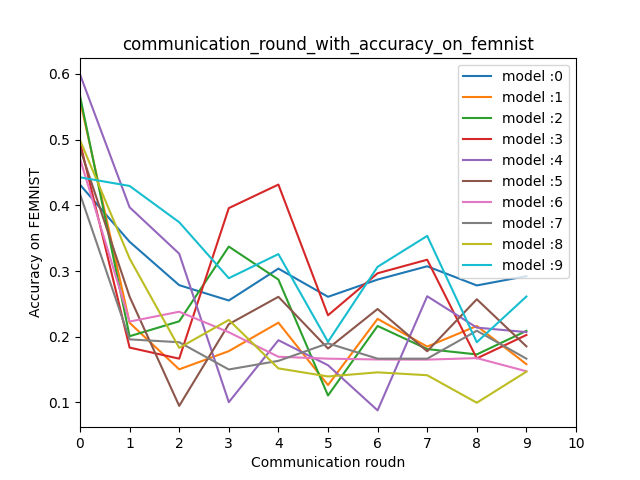
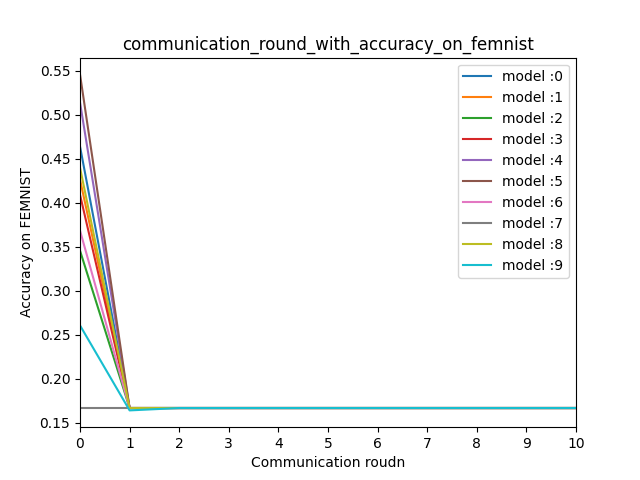
update

diff --git a/data_utils.py b/data_utils.py
@@ -103,13 +103,16 @@ def get_private_dataset_balanced(args):
         # 当我们对类的属性item进行下标的操作时，首先会被__getitem__()、__setitem__()、__delitem__()拦截，从而执行我们在方法中设定的操作，如赋值，修改内容，删除内容等等。
         def __init__(self, txt, transform=None, target_transform=None, loader=default_loader):
             fh = open(txt, 'r')
+            # i = 0
             imgs = []
             for line in fh:
                 line = line.strip('\n')
                 line = line.rstrip()
                 words = line.split()
                 if (int(words[1])+9) in private_data_index:
+                    # i = i+1
                     imgs.append((words[0], (int(words[1])+9))) # 在这里对数据进行修改
+            # print(i)
             self.imgs = imgs
             self.transform = transform
             self.target_transform = target_transform
@@ -136,10 +139,17 @@ import os
 from option import args_parser
 
 
+dict = {14: [0, 2, 14, 22, 23, 24, 28, 31, 35, 58, 63, 64, 72, 77, 87, 90, 91, 94, 95, 97, 104, 112, 138, 144, 153, 165, 179, 191, 195, 198, 207, 208, 214, 219, 221, 226, 248, 254, 255, 259, 261, 262, 264, 283, 285, 286, 295, 298, 299, 306, 310, 317, 324, 329, 337, 343, 351, 357, 366, 370, 371, 376, 380, 393, 394, 395, 404, 405, 408, 419, 433, 437, 439, 448, 450, 456, 461, 480, 481, 490, 499, 503, 507, 508, 512, 522, 527, 531, 540, 541, 555, 558, 563, 564, 570, 573, 582, 584, 591, 594, 599, 603, 607, 609, 610, 612, 621, 627, 628, 634, 650, 652, 667, 668, 696, 702, 710, 714, 715, 717, 726, 728, 729, 730, 739, 743, 748, 750, 762, 769, 775, 782, 783, 792, 798, 808, 811, 817, 823, 826, 834, 851, 854, 857, 858, 860, 864, 867, 868, 870, 876, 879, 881, 884, 898, 900, 919, 934, 938, 941, 949, 950, 954, 956, 958, 972, 986, 990, 1019, 1020, 1022, 1027, 1029, 1031, 1032, 1036, 1038, 1039, 1040, 1051, 1055, 1077, 1079, 1087, 1094, 1106, 1110, 1119, 1128, 1130, 1141, 1145, 1154, 1161, 1166, 1181, 1186, 1194, 1206, 1208, 1220, 1221, 1223, 1228, 1243, 1247, 1251, 1273, 1295, 1299, 1301, 1308, 1331, 1340, 1342, 1371, 1375, 1378, 1379, 1381, 1388, 1395, 1398, 1400, 1402, 1405, 1406, 1407, 1417, 1422, 1427, 1430, 1436, 1452, 1454, 1464, 1471, 1472, 1478, 1479, 1484, 1493, 1494, 1499, 1504, 1508, 1522, 1523, 1525, 1541, 1546, 1547, 1550, 1551, 1553, 1556, 1558, 1565, 1566, 1573, 1574, 1578, 1583, 1584, 1596, 1598, 1605, 1608, 1612, 1617, 1621, 1623, 1642, 1645, 1646, 1654, 1681, 1683, 1687, 1688, 1689, 1704, 1714, 1716, 1718, 1724, 1725, 1731, 1732, 1733, 1735, 1736, 1740, 1745, 1771, 1772, 1785, 1798, 1799, 1804, 1805, 1807, 1810, 1813, 1817, 1818, 1843, 1846, 1848, 1863, 1864, 1884, 1890, 1899, 1902, 1904, 1906, 1914, 1920, 1923, 1925, 1945, 1952, 1957, 1959, 1960, 1968, 1974, 1975, 2001, 2004, 2011, 2016, 2041, 2042, 2057, 2060, 2071, 2075, 2077, 2081, 2094, 2100, 2102, 2104, 2115, 2117, 2118, 2119, 2149, 2151, 2153, 2154, 2155, 2161, 2162, 2166, 2172, 2188, 2191, 2198, 2202, 2212, 2219, 2223, 2236, 2237, 2243, 2244, 2254, 2255, 2258, 2263, 2274, 2278, 2282, 2283, 2286, 2295, 2300, 2305, 2325, 2329, 2333, 2336, 2351, 2353, 2358, 2360, 2363, 2366, 2377, 2382, 2390, 2391, 2394, 2401, 2423, 2435, 2437, 2444, 2450, 2453, 2457, 2458, 2461, 2464, 2465, 2467, 2475, 2483, 2502, 2504, 2513, 2524, 2526, 2527, 2529, 2532, 2543, 2547, 2551, 2557, 2570, 2573, 2587, 2590, 2593, 2602, 2609, 2612, 2628, 2641, 2644, 2662, 2666, 2673, 2674, 2677, 2696, 2697, 2698, 2699, 2704, 2705, 2725, 2728, 2729, 2737, 2745, 2746, 2747, 2751, 2752, 2753, 2756, 2765, 2774, 2776, 2778, 2779, 2780, 2784, 2791, 2806, 2810, 2813, 2814, 2822, 2825, 2826, 2831, 2836, 2839, 2845, 2850, 2852, 2853, 2855, 2860, 2865, 2878, 2879, 2884, 2885, 2888, 2893, 2898, 2902, 2903, 2906, 2910, 2930, 2937, 2940, 2948, 2952, 2959, 2964, 2966, 2972, 2980, 2983, 2986, 2994, 2997, 3003, 3005, 3010, 3019, 3022, 3026, 3028, 3030, 3034, 3035, 3061, 3062, 3066, 3087, 3102, 3108, 3121, 3122, 3124, 3130, 3133, 3134, 3141, 3146, 3150, 3152, 3162, 3165, 3174, 3177, 3183, 3197, 3198, 3205, 3215, 3218, 3219, 3232, 3235, 3236, 3240, 3259, 3262, 3276, 3277, 3279, 3282, 3283, 3289, 3306, 3307, 3311, 3316, 3324, 3333, 3347, 3350, 3358, 3359, 3368, 3374, 3390, 3394, 3400, 3408, 3436, 3441, 3442, 3459, 3461, 3469, 3478, 3484, 3492, 3497, 3513, 3521, 3522, 3524, 3531, 3536, 3540, 3543, 3544, 3547, 3550, 3551, 3561, 3570, 3573, 3578, 3581, 3582, 3584, 3585, 3589, 3591, 3594, 3609, 3613, 3614, 3619, 3628, 3633, 3634, 3637, 3638, 3642, 3650, 3653, 3655, 3656, 3658, 3660, 3661, 3663, 3666, 3669, 3677, 3688, 3695, 3705, 3719, 3724, 3725, 3726, 3736, 3742, 3747, 3753, 3759, 3763, 3774, 3775, 3778, 3787, 3799, 3805, 3817, 3823, 3837, 3840, 3841, 3842, 3844, 3853, 3864, 3865, 3874, 3878, 3881, 3885, 3900, 3904, 3920, 3926, 3928, 3934, 3937, 3957, 3964, 3966, 3975, 3976, 3987, 3991, 3999, 4021, 4022, 4031, 4044, 4047, 4056, 4063, 4068, 4070, 4079, 4088, 4089, 4106, 4107, 4124, 4125, 4129, 4140, 4147, 4148, 4150, 4153, 4155, 4169, 4173, 4174, 4176, 4178, 4189, 4190, 4195, 4198, 4202, 4218, 4225, 4226, 4232, 4240, 4244, 4257, 4278, 4281, 4288, 4291, 4300, 4301, 4305, 4307, 4324, 4326, 4334, 4335, 4337, 4347, 4348, 4357, 4358, 4359, 4362, 4368, 4371, 4387, 4389, 4393, 4394, 4411, 4418, 4422, 4434, 4439, 4447, 4456, 4457, 4473, 4486, 4493, 4494, 4496, 4497, 4502, 4504, 4507, 4513, 4514, 4518, 4524, 4536, 4542, 4548, 4557, 4569, 4576, 4578, 4584, 4586, 4596, 4601, 4616, 4628, 4631, 4645, 4647, 4659, 4665, 4670, 4673, 4679, 4681, 4682, 4683, 4685, 4696, 4699, 4711, 4713, 4715, 4743, 4761, 4781, 4785, 4790, 4791, 4797, 4803, 4804, 4817, 4819, 4823, 4824, 4832, 4836, 4839, 4840, 4850, 4851, 4865, 4871, 4877, 4882, 4883, 4888, 4890, 4893, 4895, 4896, 4898, 4904, 4911, 4923, 4925, 4929, 4930, 4933, 4939, 4943, 4945, 4946, 4950, 4951, 4953, 4957, 4965, 4966, 4970, 4977, 4979, 4986, 4987, 4988, 4997, 5015, 5016, 5022, 5024, 5026, 5037, 5041, 5043, 5045, 5050, 5059, 5063, 5066, 5084, 5090, 5092, 5107, 5110, 5122, 5138, 5139, 5140, 5149, 5156, 5165, 5168, 5178, 5197, 5201, 5204, 5205, 5206, 5211, 5225, 5229, 5231, 5237, 5250, 5252, 5253, 5258, 5270, 5277, 5278, 5283, 5288, 5301, 5304, 5306, 5315, 5326, 5327, 5329, 5330, 5347, 5379, 5389, 5392, 5409, 5414, 5417, 5424],
+        11: [1, 9, 16, 17, 19, 21, 27, 40, 41, 42, 47, 52, 53, 66, 78, 80, 86, 107, 115, 118, 120, 121, 129, 131, 133, 148, 149, 150, 156, 159, 162, 166, 167, 168, 193, 206, 213, 215, 223, 225, 230, 240, 257, 258, 263, 265, 267, 270, 271, 278, 281, 289, 320, 322, 325, 326, 332, 334, 341, 345, 346, 352, 360, 363, 365, 369, 372, 382, 383, 390, 410, 415, 418, 426, 430, 431, 435, 454, 462, 476, 486, 489, 493, 496, 506, 513, 518, 525, 526, 533, 557, 571, 593, 597, 615, 625, 629, 633, 637, 657, 670, 671, 672, 673, 681, 684, 692, 695, 700, 706, 716, 719, 724, 734, 735, 755, 756, 759, 763, 771, 773, 784, 786, 789, 794, 806, 820, 822, 840, 849, 852, 853, 866, 875, 894, 918, 920, 923, 927, 937, 943, 944, 960, 965, 966, 967, 973, 980, 984, 991, 1012, 1014, 1015, 1017, 1018, 1049, 1056, 1061, 1065, 1066, 1069, 1074, 1075, 1083, 1098, 1101, 1102, 1107, 1112, 1123, 1134, 1137, 1139, 1140, 1143, 1144, 1149, 1171, 1173, 1178, 1179, 1183, 1187, 1188, 1193, 1207, 1210, 1215, 1222, 1226, 1230, 1237, 1239, 1240, 1248, 1255, 1258, 1261, 1263, 1266, 1268, 1276, 1278, 1286, 1288, 1302, 1307, 1311, 1313, 1316, 1320, 1321, 1325, 1326, 1328, 1334, 1367, 1370, 1373, 1377, 1383, 1391, 1392, 1394, 1418, 1423, 1433, 1437, 1449, 1458, 1462, 1467, 1469, 1473, 1474, 1488, 1500, 1505, 1506, 1511, 1518, 1528, 1529, 1533, 1536, 1537, 1539, 1549, 1561, 1567, 1572, 1582, 1591, 1607, 1629, 1631, 1632, 1635, 1637, 1647, 1649, 1661, 1668, 1669, 1672, 1684, 1685, 1686, 1696, 1713, 1720, 1729, 1749, 1752, 1767, 1768, 1774, 1775, 1779, 1788, 1806, 1809, 1812, 1824, 1828, 1850, 1865, 1867, 1871, 1876, 1881, 1883, 1885, 1887, 1888, 1889, 1900, 1901, 1908, 1922, 1928, 1938, 1942, 1944, 1954, 1958, 1964, 1973, 1978, 1983, 1984, 1985, 1989, 2020, 2022, 2024, 2039, 2047, 2049, 2054, 2055, 2063, 2065, 2070, 2080, 2087, 2091, 2113, 2116, 2135, 2136, 2140, 2142, 2145, 2146, 2148, 2164, 2170, 2192, 2193, 2194, 2204, 2207, 2210, 2224, 2227, 2232, 2238, 2239, 2257, 2264, 2265, 2267, 2268, 2277, 2287, 2292, 2322, 2324, 2327, 2340, 2341, 2345, 2367, 2403, 2412, 2418, 2420, 2432, 2436, 2438, 2448, 2449, 2455, 2469, 2476, 2477, 2491, 2505, 2506, 2509, 2523, 2531, 2537, 2538, 2545, 2559, 2560, 2562, 2564, 2576, 2578, 2580, 2598, 2603, 2608, 2619, 2620, 2623, 2624, 2639, 2642, 2643, 2649, 2651, 2671, 2682, 2683, 2684, 2686, 2687, 2695, 2709, 2717, 2719, 2731, 2734, 2748, 2762, 2763, 2773, 2783, 2794, 2798, 2800, 2812, 2816, 2817, 2841, 2847, 2856, 2862, 2864, 2870, 2871, 2874, 2880, 2881, 2890, 2891, 2892, 2896, 2905, 2913, 2914, 2917, 2935, 2936, 2938, 2939, 2947, 2949, 2951, 2954, 2956, 2958, 2962, 2965, 2967, 2968, 2993, 2999, 3000, 3004, 3007, 3009, 3011, 3015, 3025, 3037, 3042, 3054, 3055, 3063, 3074, 3079, 3092, 3097, 3105, 3111, 3112, 3113, 3116, 3128, 3129, 3131, 3132, 3153, 3155, 3156, 3170, 3181, 3182, 3188, 3189, 3194, 3212, 3213, 3217, 3222, 3229, 3233, 3238, 3251, 3253, 3290, 3293, 3294, 3297, 3309, 3331, 3338, 3341, 3342, 3346, 3364, 3369, 3382, 3383, 3384, 3399, 3402, 3412, 3413, 3415, 3420, 3437, 3443, 3444, 3445, 3446, 3448, 3451, 3462, 3464, 3470, 3472, 3479, 3480, 3481, 3482, 3483, 3486, 3490, 3496, 3498, 3506, 3507, 3523, 3539, 3546, 3548, 3549, 3574, 3580, 3590, 3596, 3601, 3610, 3615, 3626, 3632, 3639, 3657, 3662, 3664, 3667, 3670, 3686, 3687, 3691, 3696, 3698, 3706, 3707, 3710, 3711, 3714, 3729, 3737, 3745, 3756, 3760, 3762, 3765, 3766, 3768, 3773, 3776, 3786, 3790, 3794, 3796, 3797, 3811, 3813, 3816, 3824, 3838, 3843, 3867, 3870, 3872, 3875, 3886, 3888, 3893, 3895, 3906, 3911, 3921, 3922, 3938, 3949, 3950, 3955, 3960, 3970, 3971, 3982, 3984, 3988, 3997, 3998, 4009, 4012, 4014, 4016, 4029, 4033, 4035, 4039, 4041, 4048, 4051, 4065, 4073, 4080, 4085, 4103, 4109, 4128, 4131, 4137, 4138, 4142, 4146, 4159, 4165, 4171, 4172, 4175, 4179, 4182, 4197, 4199, 4201, 4207, 4209, 4212, 4215, 4236, 4245, 4253, 4255, 4256, 4258, 4266, 4269, 4275, 4282, 4286, 4289, 4294, 4296, 4297, 4302, 4311, 4312, 4313, 4316, 4322, 4325, 4333, 4342, 4349, 4351, 4352, 4354, 4355, 4370, 4372, 4373, 4376, 4386, 4399, 4401, 4405, 4406, 4412, 4413, 4421, 4428, 4437, 4449, 4463, 4485, 4509, 4511, 4519, 4522, 4525, 4526, 4530, 4538, 4541, 4543, 4545, 4547, 4551, 4553, 4555, 4559, 4565, 4566, 4572, 4575, 4579, 4580, 4581, 4587, 4590, 4602, 4606, 4610, 4611, 4615, 4621, 4622, 4630, 4640, 4642, 4644, 4651, 4660, 4666, 4667, 4672, 4674, 4677, 4688, 4694, 4700, 4701, 4706, 4707, 4721, 4723, 4728, 4734, 4741, 4744, 4757, 4758, 4759, 4760, 4763, 4776, 4779, 4793, 4805, 4806, 4811, 4812, 4814, 4816, 4826, 4827, 4838, 4844, 4845, 4857, 4859, 4864, 4872, 4901, 4903, 4907, 4913, 4916, 4919, 4920, 4921, 4927, 4944, 4956, 4967, 4971, 4973, 4981, 4994, 5001, 5003, 5011, 5014, 5017, 5020, 5032, 5047, 5074, 5076, 5102, 5104, 5114, 5117, 5118, 5120, 5126, 5128, 5131, 5133, 5137, 5145, 5148, 5150, 5151, 5158, 5167, 5170, 5171, 5174, 5179, 5180, 5181, 5191, 5192, 5200, 5203, 5208, 5209, 5215, 5217, 5218, 5219, 5220, 5221, 5243, 5244, 5246, 5255, 5257, 5261, 5271, 5275, 5289, 5291, 5292, 5308, 5311, 5312, 5328, 5338, 5340, 5341, 5346, 5354, 5355, 5356, 5357, 5358, 5369, 5370, 5371, 5374, 5376, 5387, 5398, 5405, 5408, 5410, 5412, 5418],
+        10: [3, 4, 5, 7, 13, 18, 20, 55, 59, 67, 74, 82, 88, 96, 106, 110, 114, 116, 119, 128, 132, 137, 139, 146, 154, 158, 160, 173, 176, 180, 196, 203, 209, 220, 229, 232, 234, 241, 249, 252, 253, 256, 268, 279, 280, 282, 290, 293, 294, 296, 297, 300, 301, 307, 327, 339, 342, 354, 364, 384, 387, 388, 403, 406, 407, 414, 420, 421, 422, 424, 429, 444, 452, 453, 469, 470, 477, 483, 484, 488, 498, 510, 514, 517, 519, 530, 532, 534, 538, 543, 544, 547, 552, 559, 565, 576, 583, 585, 586, 592, 596, 598, 600, 620, 640, 644, 646, 647, 649, 653, 658, 663, 669, 674, 683, 687, 690, 691, 693, 697, 712, 722, 727, 732, 737, 740, 741, 742, 752, 757, 770, 776, 779, 781, 787, 793, 797, 809, 810, 813, 815, 830, 832, 843, 850, 869, 872, 873, 874, 882, 892, 893, 903, 907, 910, 914, 915, 925, 932, 942, 952, 953, 959, 963, 969, 971, 976, 977, 978, 982, 988, 989, 994, 1000, 1001, 1006, 1021, 1023, 1024, 1025, 1028, 1044, 1047, 1052, 1057, 1058, 1064, 1068, 1073, 1092, 1093, 1095, 1104, 1109, 1113, 1122, 1125, 1133, 1135, 1152, 1160, 1162, 1163, 1164, 1167, 1170, 1172, 1184, 1198, 1200, 1202, 1203, 1212, 1219, 1225, 1246, 1250, 1256, 1269, 1282, 1291, 1296, 1297, 1303, 1309, 1310, 1314, 1315, 1317, 1318, 1322, 1338, 1343, 1344, 1346, 1349, 1364, 1365, 1380, 1385, 1386, 1401, 1411, 1415, 1419, 1421, 1426, 1445, 1447, 1450, 1456, 1457, 1460, 1475, 1477, 1480, 1481, 1483, 1489, 1491, 1497, 1498, 1502, 1509, 1520, 1524, 1526, 1543, 1548, 1575, 1579, 1588, 1592, 1597, 1603, 1614, 1619, 1620, 1624, 1639, 1644, 1650, 1651, 1652, 1653, 1655, 1656, 1663, 1676, 1717, 1726, 1728, 1744, 1758, 1760, 1764, 1766, 1769, 1777, 1780, 1783, 1787, 1789, 1790, 1803, 1811, 1814, 1820, 1823, 1827, 1830, 1834, 1837, 1838, 1841, 1849, 1854, 1855, 1861, 1872, 1879, 1880, 1886, 1897, 1905, 1913, 1917, 1918, 1937, 1947, 1948, 1953, 1956, 1967, 1977, 1988, 1991, 1992, 1996, 1999, 2002, 2009, 2010, 2014, 2015, 2017, 2018, 2021, 2025, 2033, 2043, 2050, 2053, 2058, 2062, 2066, 2068, 2076, 2085, 2090, 2093, 2095, 2103, 2105, 2112, 2114, 2120, 2122, 2125, 2129, 2130, 2131, 2133, 2134, 2147, 2152, 2157, 2167, 2174, 2175, 2182, 2186, 2195, 2201, 2214, 2220, 2222, 2228, 2229, 2230, 2262, 2273, 2275, 2276, 2279, 2288, 2289, 2293, 2297, 2301, 2314, 2328, 2330, 2332, 2338, 2339, 2347, 2356, 2357, 2359, 2372, 2374, 2376, 2379, 2385, 2386, 2392, 2395, 2396, 2407, 2411, 2413, 2439, 2440, 2441, 2442, 2443, 2452, 2474, 2479, 2481, 2488, 2496, 2497, 2498, 2499, 2500, 2522, 2525, 2528, 2530, 2536, 2541, 2542, 2544, 2549, 2553, 2561, 2567, 2569, 2575, 2579, 2581, 2583, 2585, 2586, 2592, 2605, 2610, 2625, 2627, 2632, 2633, 2635, 2640, 2645, 2650, 2654, 2656, 2665, 2676, 2678, 2679, 2681, 2693, 2701, 2710, 2712, 2714, 2718, 2720, 2723, 2726, 2736, 2739, 2743, 2768, 2775, 2781, 2789, 2795, 2804, 2830, 2833, 2840, 2851, 2854, 2859, 2863, 2867, 2868, 2886, 2897, 2900, 2909, 2911, 2919, 2927, 2934, 2941, 2944, 2946, 2950, 2953, 2960, 2961, 2969, 2971, 2975, 2976, 2978, 2991, 2996, 2998, 3002, 3027, 3029, 3038, 3046, 3047, 3049, 3051, 3053, 3060, 3068, 3070, 3075, 3077, 3078, 3100, 3101, 3103, 3135, 3138, 3147, 3158, 3163, 3167, 3180, 3186, 3192, 3196, 3201, 3208, 3209, 3220, 3226, 3244, 3247, 3250, 3261, 3263, 3264, 3266, 3270, 3278, 3280, 3281, 3291, 3295, 3296, 3304, 3312, 3315, 3321, 3322, 3334, 3339, 3354, 3360, 3370, 3373, 3375, 3378, 3391, 3398, 3406, 3409, 3411, 3417, 3422, 3428, 3430, 3434, 3447, 3455, 3457, 3463, 3465, 3466, 3467, 3468, 3473, 3474, 3475, 3477, 3487, 3488, 3502, 3503, 3520, 3529, 3530, 3537, 3538, 3545, 3558, 3559, 3560, 3571, 3572, 3579, 3592, 3597, 3598, 3599, 3600, 3604, 3607, 3617, 3620, 3622, 3625, 3641, 3643, 3646, 3651, 3668, 3679, 3684, 3685, 3690, 3712, 3722, 3727, 3730, 3732, 3734, 3735, 3744, 3749, 3752, 3757, 3761, 3769, 3772, 3781, 3784, 3795, 3798, 3802, 3822, 3828, 3829, 3831, 3833, 3836, 3848, 3851, 3854, 3861, 3876, 3879, 3883, 3887, 3899, 3913, 3915, 3919, 3923, 3931, 3933, 3935, 3936, 3945, 3951, 3953, 3954, 3963, 3972, 3974, 3981, 3995, 3996, 4004, 4005, 4008, 4011, 4017, 4018, 4026, 4027, 4043, 4045, 4050, 4055, 4060, 4074, 4076, 4081, 4082, 4086, 4087, 4096, 4108, 4117, 4134, 4135, 4139, 4144, 4149, 4185, 4186, 4227, 4231, 4250, 4268, 4274, 4279, 4284, 4285, 4292, 4310, 4314, 4330, 4332, 4336, 4343, 4350, 4360, 4365, 4366, 4377, 4385, 4398, 4400, 4407, 4410, 4419, 4425, 4430, 4454, 4464, 4466, 4467, 4476, 4483, 4488, 4489, 4499, 4515, 4516, 4528, 4534, 4537, 4546, 4549, 4552, 4561, 4562, 4570, 4571, 4583, 4585, 4588, 4589, 4598, 4617, 4619, 4620, 4625, 4629, 4633, 4636, 4643, 4646, 4649, 4650, 4653, 4662, 4668, 4669, 4671, 4684, 4689, 4690, 4691, 4692, 4724, 4725, 4727, 4739, 4764, 4766, 4767, 4773, 4775, 4782, 4787, 4794, 4796, 4807, 4821, 4829, 4830, 4841, 4858, 4861, 4866, 4874, 4876, 4879, 4881, 4884, 4886, 4914, 4935, 4936, 4938, 4942, 4958, 4963, 4972, 4978, 4980, 4990, 4993, 4995, 5010, 5021, 5027, 5035, 5036, 5040, 5042, 5046, 5048, 5049, 5053, 5064, 5072, 5093, 5094, 5097, 5101, 5105, 5111, 5123, 5134, 5135, 5144, 5162, 5173, 5176, 5186, 5213, 5224, 5226, 5239, 5251, 5256, 5259, 5263, 5281, 5285, 5294, 5297, 5298, 5299, 5300, 5305, 5313, 5317, 5322, 5323, 5333, 5342, 5343, 5349, 5365, 5368, 5375, 5378, 5381, 5383, 5385, 5391, 5420, 5425],
+        13: [6, 12, 29, 45, 49, 50, 51, 57, 60, 62, 69, 70, 81, 89, 98, 124, 125, 127, 130, 134, 140, 143, 157, 169, 178, 181, 183, 185, 187, 192, 194, 197, 200, 202, 204, 205, 217, 222, 238, 272, 277, 287, 288, 304, 309, 315, 316, 319, 323, 328, 330, 331, 333, 336, 347, 348, 350, 355, 359, 367, 373, 378, 385, 386, 397, 402, 412, 416, 436, 440, 441, 445, 449, 451, 458, 464, 466, 467, 468, 491, 492, 500, 505, 516, 521, 524, 528, 529, 537, 539, 542, 546, 553, 554, 566, 572, 574, 577, 578, 595, 602, 606, 616, 622, 635, 643, 651, 655, 659, 664, 677, 678, 679, 682, 694, 705, 709, 713, 720, 721, 725, 733, 738, 745, 753, 758, 761, 766, 767, 777, 790, 799, 803, 804, 819, 821, 825, 829, 839, 844, 859, 862, 865, 880, 887, 890, 891, 909, 911, 913, 916, 917, 921, 928, 930, 933, 935, 940, 946, 947, 957, 964, 968, 974, 979, 981, 983, 998, 1002, 1007, 1008, 1011, 1013, 1016, 1026, 1030, 1034, 1035, 1042, 1043, 1050, 1059, 1060, 1062, 1063, 1067, 1070, 1071, 1080, 1084, 1088, 1091, 1096, 1116, 1124, 1127, 1129, 1132, 1142, 1156, 1157, 1159, 1185, 1189, 1191, 1197, 1199, 1204, 1218, 1234, 1242, 1244, 1245, 1259, 1270, 1271, 1274, 1277, 1284, 1287, 1289, 1290, 1292, 1306, 1324, 1327, 1332, 1333, 1341, 1345, 1350, 1352, 1353, 1356, 1369, 1374, 1382, 1387, 1393, 1396, 1397, 1404, 1428, 1434, 1435, 1438, 1439, 1443, 1444, 1446, 1448, 1459, 1463, 1466, 1485, 1487, 1490, 1492, 1507, 1510, 1521, 1534, 1540, 1545, 1552, 1559, 1564, 1589, 1595, 1601, 1602, 1604, 1611, 1625, 1626, 1628, 1630, 1638, 1643, 1658, 1659, 1664, 1666, 1671, 1673, 1682, 1695, 1697, 1699, 1706, 1709, 1719, 1723, 1734, 1743, 1747, 1750, 1763, 1765, 1776, 1782, 1791, 1795, 1796, 1800, 1801, 1815, 1816, 1822, 1832, 1851, 1856, 1860, 1874, 1878, 1882, 1891, 1909, 1910, 1916, 1924, 1929, 1930, 1932, 1934, 1935, 1963, 1965, 1966, 1979, 1981, 1993, 1995, 2000, 2008, 2012, 2013, 2027, 2029, 2031, 2032, 2038, 2045, 2048, 2061, 2073, 2074, 2084, 2086, 2098, 2106, 2107, 2109, 2121, 2124, 2128, 2137, 2138, 2158, 2168, 2169, 2176, 2178, 2179, 2197, 2200, 2203, 2216, 2217, 2218, 2225, 2226, 2231, 2240, 2250, 2253, 2259, 2272, 2281, 2284, 2291, 2294, 2309, 2310, 2313, 2317, 2331, 2335, 2352, 2355, 2362, 2364, 2368, 2380, 2384, 2389, 2398, 2404, 2406, 2414, 2415, 2416, 2424, 2427, 2431, 2434, 2445, 2447, 2451, 2470, 2471, 2472, 2482, 2485, 2493, 2517, 2519, 2533, 2535, 2540, 2546, 2548, 2550, 2556, 2563, 2566, 2568, 2574, 2577, 2584, 2588, 2591, 2596, 2601, 2607, 2611, 2613, 2614, 2616, 2629, 2636, 2638, 2648, 2652, 2655, 2659, 2660, 2667, 2670, 2672, 2675, 2680, 2688, 2692, 2703, 2706, 2708, 2711, 2716, 2727, 2741, 2742, 2757, 2758, 2761, 2769, 2771, 2777, 2785, 2786, 2790, 2792, 2797, 2807, 2808, 2811, 2815, 2820, 2824, 2829, 2842, 2848, 2857, 2858, 2861, 2875, 2876, 2877, 2882, 2887, 2895, 2901, 2904, 2907, 2912, 2918, 2923, 2929, 2933, 2942, 2945, 2955, 2963, 2970, 2973, 2981, 2982, 2985, 2987, 2989, 2990, 3008, 3013, 3017, 3020, 3040, 3048, 3056, 3057, 3058, 3067, 3073, 3080, 3081, 3082, 3083, 3093, 3109, 3119, 3120, 3136, 3142, 3144, 3148, 3151, 3168, 3169, 3175, 3178, 3185, 3207, 3214, 3221, 3231, 3234, 3237, 3242, 3243, 3245, 3246, 3267, 3269, 3285, 3286, 3292, 3300, 3301, 3305, 3310, 3318, 3323, 3325, 3329, 3335, 3336, 3340, 3348, 3361, 3366, 3367, 3371, 3372, 3379, 3393, 3396, 3397, 3401, 3407, 3410, 3414, 3418, 3419, 3429, 3431, 3435, 3438, 3450, 3454, 3456, 3458, 3495, 3499, 3505, 3511, 3516, 3517, 3526, 3527, 3541, 3552, 3557, 3576, 3583, 3586, 3587, 3603, 3606, 3608, 3611, 3612, 3616, 3621, 3624, 3631, 3635, 3636, 3644, 3645, 3665, 3672, 3674, 3675, 3700, 3703, 3704, 3721, 3723, 3738, 3740, 3741, 3743, 3748, 3750, 3767, 3770, 3771, 3780, 3800, 3801, 3804, 3815, 3818, 3821, 3826, 3830, 3832, 3839, 3849, 3858, 3866, 3869, 3871, 3873, 3889, 3890, 3892, 3894, 3897, 3898, 3901, 3905, 3909, 3918, 3925, 3929, 3930, 3940, 3941, 3942, 3944, 3956, 3959, 3968, 3979, 3993, 3994, 4000, 4002, 4006, 4007, 4019, 4024, 4028, 4038, 4049, 4052, 4057, 4059, 4066, 4069, 4075, 4078, 4084, 4091, 4097, 4111, 4113, 4115, 4120, 4122, 4127, 4130, 4132, 4151, 4158, 4166, 4180, 4181, 4196, 4204, 4205, 4206, 4211, 4214, 4216, 4219, 4221, 4228, 4229, 4242, 4243, 4254, 4259, 4261, 4265, 4267, 4273, 4308, 4321, 4328, 4339, 4340, 4344, 4353, 4361, 4375, 4378, 4380, 4390, 4391, 4395, 4396, 4408, 4409, 4416, 4417, 4420, 4426, 4436, 4441, 4443, 4446, 4459, 4460, 4465, 4468, 4479, 4481, 4484, 4492, 4505, 4517, 4521, 4529, 4577, 4592, 4594, 4595, 4597, 4608, 4609, 4613, 4623, 4632, 4634, 4639, 4655, 4656, 4657, 4658, 4675, 4680, 4687, 4693, 4697, 4716, 4717, 4720, 4729, 4731, 4732, 4737, 4738, 4742, 4746, 4749, 4750, 4751, 4769, 4771, 4774, 4786, 4795, 4813, 4815, 4820, 4828, 4847, 4852, 4856, 4868, 4873, 4885, 4894, 4905, 4908, 4910, 4917, 4918, 4924, 4928, 4931, 4932, 4934, 4937, 4940, 4961, 4962, 4982, 4983, 4989, 4991, 4999, 5006, 5025, 5028, 5033, 5051, 5054, 5056, 5065, 5067, 5069, 5075, 5077, 5083, 5086, 5087, 5106, 5116, 5142, 5147, 5152, 5159, 5182, 5184, 5188, 5195, 5199, 5207, 5214, 5216, 5222, 5228, 5236, 5242, 5248, 5260, 5267, 5272, 5282, 5284, 5286, 5290, 5296, 5309, 5310, 5318, 5319, 5321, 5325, 5331, 5332, 5344, 5345, 5351, 5380, 5382, 5384, 5390, 5393, 5395, 5396, 5399, 5402, 5413, 5416, 5422],
+        12: [8, 10, 25, 30, 33, 34, 36, 37, 38, 39, 46, 54, 56, 71, 75, 79, 83, 85, 92, 101, 103, 108, 111, 113, 117, 122, 135, 141, 142, 147, 152, 155, 170, 171, 174, 175, 177, 189, 190, 199, 201, 210, 211, 212, 216, 231, 236, 237, 242, 243, 244, 246, 250, 260, 266, 273, 274, 275, 276, 284, 292, 305, 308, 311, 312, 313, 335, 349, 353, 356, 361, 362, 368, 375, 377, 379, 392, 396, 398, 399, 400, 401, 417, 423, 425, 427, 428, 442, 447, 455, 460, 473, 474, 475, 482, 494, 497, 502, 509, 511, 515, 523, 549, 551, 556, 560, 561, 562, 568, 581, 590, 601, 605, 611, 613, 614, 617, 619, 623, 626, 630, 642, 645, 654, 656, 660, 662, 665, 666, 675, 680, 685, 686, 689, 699, 704, 711, 718, 723, 736, 749, 751, 754, 764, 772, 780, 788, 791, 795, 796, 800, 816, 818, 827, 828, 833, 835, 837, 838, 842, 845, 846, 847, 848, 856, 861, 863, 871, 877, 883, 885, 886, 888, 889, 895, 896, 901, 902, 904, 905, 906, 924, 929, 939, 948, 955, 961, 962, 985, 995, 996, 999, 1005, 1009, 1033, 1045, 1046, 1048, 1054, 1076, 1081, 1085, 1086, 1089, 1090, 1099, 1103, 1111, 1115, 1118, 1126, 1138, 1150, 1151, 1153, 1158, 1165, 1168, 1180, 1190, 1195, 1201, 1211, 1213, 1214, 1216, 1231, 1233, 1236, 1238, 1254, 1260, 1262, 1264, 1265, 1275, 1281, 1285, 1300, 1304, 1319, 1323, 1329, 1335, 1336, 1337, 1348, 1354, 1357, 1361, 1363, 1366, 1376, 1384, 1399, 1409, 1412, 1413, 1429, 1442, 1451, 1455, 1476, 1482, 1495, 1496, 1501, 1503, 1517, 1519, 1527, 1530, 1531, 1542, 1554, 1560, 1562, 1568, 1571, 1577, 1581, 1585, 1586, 1590, 1606, 1609, 1613, 1618, 1622, 1627, 1633, 1634, 1636, 1640, 1641, 1657, 1660, 1678, 1679, 1680, 1690, 1691, 1698, 1700, 1703, 1707, 1708, 1710, 1711, 1712, 1715, 1721, 1722, 1727, 1730, 1746, 1748, 1754, 1756, 1759, 1762, 1770, 1778, 1781, 1786, 1792, 1797, 1802, 1808, 1821, 1826, 1829, 1831, 1839, 1840, 1842, 1844, 1857, 1858, 1868, 1869, 1870, 1873, 1875, 1877, 1893, 1894, 1898, 1903, 1911, 1912, 1919, 1921, 1933, 1940, 1941, 1961, 1962, 1969, 1971, 1982, 1987, 1994, 1997, 1998, 2005, 2006, 2007, 2019, 2026, 2028, 2034, 2037, 2040, 2046, 2051, 2052, 2064, 2072, 2082, 2088, 2096, 2097, 2099, 2110, 2111, 2127, 2139, 2150, 2156, 2163, 2171, 2181, 2183, 2185, 2187, 2189, 2206, 2209, 2211, 2235, 2242, 2246, 2247, 2249, 2251, 2260, 2261, 2269, 2280, 2285, 2290, 2296, 2303, 2304, 2307, 2311, 2312, 2315, 2316, 2320, 2321, 2326, 2342, 2344, 2349, 2370, 2373, 2375, 2393, 2397, 2399, 2400, 2417, 2419, 2422, 2426, 2429, 2433, 2454, 2459, 2463, 2486, 2487, 2489, 2490, 2495, 2501, 2511, 2515, 2534, 2539, 2552, 2571, 2599, 2600, 2604, 2617, 2618, 2622, 2626, 2630, 2637, 2646, 2653, 2658, 2664, 2668, 2685, 2694, 2700, 2702, 2713, 2721, 2722, 2724, 2732, 2733, 2740, 2744, 2755, 2760, 2766, 2767, 2770, 2782, 2787, 2788, 2793, 2805, 2818, 2819, 2827, 2832, 2834, 2835, 2837, 2843, 2872, 2873, 2908, 2931, 2957, 2984, 2992, 3001, 3006, 3016, 3018, 3023, 3031, 3039, 3041, 3043, 3044, 3045, 3059, 3064, 3065, 3085, 3086, 3091, 3095, 3099, 3115, 3123, 3125, 3126, 3127, 3139, 3143, 3160, 3161, 3164, 3171, 3172, 3173, 3187, 3191, 3193, 3200, 3204, 3210, 3223, 3227, 3230, 3248, 3249, 3258, 3265, 3268, 3271, 3273, 3274, 3302, 3308, 3313, 3314, 3319, 3320, 3328, 3332, 3344, 3352, 3357, 3365, 3377, 3380, 3386, 3404, 3405, 3416, 3421, 3425, 3426, 3427, 3432, 3433, 3439, 3440, 3449, 3453, 3476, 3485, 3504, 3512, 3518, 3519, 3525, 3533, 3534, 3542, 3555, 3556, 3562, 3563, 3566, 3567, 3577, 3588, 3593, 3602, 3623, 3629, 3630, 3647, 3648, 3654, 3681, 3682, 3683, 3692, 3694, 3697, 3702, 3708, 3713, 3715, 3716, 3717, 3720, 3733, 3746, 3758, 3779, 3783, 3785, 3803, 3806, 3807, 3808, 3809, 3810, 3820, 3835, 3845, 3846, 3850, 3852, 3859, 3862, 3863, 3868, 3877, 3880, 3891, 3896, 3902, 3903, 3908, 3910, 3912, 3916, 3932, 3952, 3961, 3967, 3973, 3978, 3983, 3985, 3986, 3989, 3992, 4003, 4010, 4013, 4020, 4023, 4030, 4032, 4040, 4053, 4058, 4064, 4094, 4095, 4099, 4100, 4101, 4102, 4110, 4112, 4114, 4116, 4118, 4123, 4126, 4133, 4143, 4152, 4154, 4156, 4157, 4163, 4164, 4167, 4168, 4177, 4184, 4187, 4192, 4194, 4200, 4208, 4213, 4220, 4224, 4233, 4235, 4239, 4241, 4247, 4248, 4260, 4262, 4263, 4270, 4271, 4287, 4290, 4303, 4304, 4306, 4315, 4319, 4329, 4331, 4338, 4356, 4364, 4369, 4379, 4381, 4382, 4383, 4402, 4403, 4414, 4415, 4423, 4424, 4427, 4432, 4435, 4444, 4445, 4448, 4451, 4452, 4453, 4455, 4458, 4461, 4462, 4471, 4474, 4487, 4491, 4495, 4503, 4508, 4527, 4535, 4539, 4540, 4550, 4554, 4560, 4564, 4582, 4593, 4600, 4603, 4605, 4607, 4627, 4635, 4641, 4648, 4663, 4664, 4676, 4695, 4698, 4704, 4705, 4708, 4710, 4712, 4718, 4722, 4726, 4730, 4733, 4735, 4740, 4747, 4748, 4752, 4753, 4754, 4756, 4765, 4784, 4788, 4789, 4798, 4800, 4802, 4809, 4818, 4822, 4831, 4834, 4835, 4842, 4846, 4849, 4854, 4855, 4860, 4862, 4867, 4870, 4875, 4880, 4887, 4889, 4897, 4899, 4902, 4909, 4912, 4915, 4922, 4941, 4948, 4952, 4954, 4959, 4960, 4968, 4974, 4975, 4976, 4984, 4992, 4998, 5000, 5002, 5005, 5007, 5009, 5012, 5019, 5031, 5034, 5038, 5039, 5055, 5057, 5060, 5062, 5068, 5071, 5079, 5080, 5081, 5082, 5085, 5089, 5095, 5096, 5103, 5112, 5115, 5119, 5125, 5130, 5132, 5161, 5163, 5166, 5172, 5175, 5177, 5183, 5185, 5193, 5194, 5210, 5223, 5227, 5233, 5238, 5241, 5245, 5249, 5254, 5266, 5273, 5274, 5279, 5280, 5293, 5295, 5302, 5303, 5307, 5314, 5316, 5320, 5335, 5336, 5348, 5360, 5361, 5362, 5364, 5373, 5386, 5394, 5400, 5406, 5407, 5415, 5419],
+        15: [11, 15, 26, 32, 43, 44, 48, 61, 65, 68, 73, 76, 84, 93, 99, 100, 102, 105, 109, 123, 126, 136, 145, 151, 161, 163, 164, 172, 182, 184, 186, 188, 218, 224, 227, 228, 233, 235, 239, 245, 247, 251, 269, 291, 302, 303, 314, 318, 321, 338, 340, 344, 358, 374, 381, 389, 391, 409, 411, 413, 432, 434, 438, 443, 446, 457, 459, 463, 465, 471, 472, 478, 479, 485, 487, 495, 501, 504, 520, 535, 536, 545, 548, 550, 567, 569, 575, 579, 580, 587, 588, 589, 604, 608, 618, 624, 631, 632, 636, 638, 639, 641, 648, 661, 676, 688, 698, 701, 703, 707, 708, 731, 744, 746, 747, 760, 765, 768, 774, 778, 785, 801, 802, 805, 807, 812, 814, 824, 831, 836, 841, 855, 878, 897, 899, 908, 912, 922, 926, 931, 936, 945, 951, 970, 975, 987, 992, 993, 997, 1003, 1004, 1010, 1037, 1041, 1053, 1072, 1078, 1082, 1097, 1100, 1105, 1108, 1114, 1117, 1120, 1121, 1131, 1136, 1146, 1147, 1148, 1155, 1169, 1174, 1175, 1176, 1177, 1182, 1192, 1196, 1205, 1209, 1217, 1224, 1227, 1229, 1232, 1235, 1241, 1249, 1252, 1253, 1257, 1267, 1272, 1279, 1280, 1283, 1293, 1294, 1298, 1305, 1312, 1330, 1339, 1347, 1351, 1355, 1358, 1359, 1360, 1362, 1368, 1372, 1389, 1390, 1403, 1408, 1410, 1414, 1416, 1420, 1424, 1425, 1431, 1432, 1440, 1441, 1453, 1461, 1465, 1468, 1470, 1486, 1512, 1513, 1514, 1515, 1516, 1532, 1535, 1538, 1544, 1555, 1557, 1563, 1569, 1570, 1576, 1580, 1587, 1593, 1594, 1599, 1600, 1610, 1615, 1616, 1648, 1662, 1665, 1667, 1670, 1674, 1675, 1677, 1692, 1693, 1694, 1701, 1702, 1705, 1737, 1738, 1739, 1741, 1742, 1751, 1753, 1755, 1757, 1761, 1773, 1784, 1793, 1794, 1819, 1825, 1833, 1835, 1836, 1845, 1847, 1852, 1853, 1859, 1862, 1866, 1892, 1895, 1896, 1907, 1915, 1926, 1927, 1931, 1936, 1939, 1943, 1946, 1949, 1950, 1951, 1955, 1970, 1972, 1976, 1980, 1986, 1990, 2003, 2023, 2030, 2035, 2036, 2044, 2056, 2059, 2067, 2069, 2078, 2079, 2083, 2089, 2092, 2101, 2108, 2123, 2126, 2132, 2141, 2143, 2144, 2159, 2160, 2165, 2173, 2177, 2180, 2184, 2190, 2196, 2199, 2205, 2208, 2213, 2215, 2221, 2233, 2234, 2241, 2245, 2248, 2252, 2256, 2266, 2270, 2271, 2298, 2299, 2302, 2306, 2308, 2318, 2319, 2323, 2334, 2337, 2343, 2346, 2348, 2350, 2354, 2361, 2365, 2369, 2371, 2378, 2381, 2383, 2387, 2388, 2402, 2405, 2408, 2409, 2410, 2421, 2425, 2428, 2430, 2446, 2456, 2460, 2462, 2466, 2468, 2473, 2478, 2480, 2484, 2492, 2494, 2503, 2507, 2508, 2510, 2512, 2514, 2516, 2518, 2520, 2521, 2554, 2555, 2558, 2565, 2572, 2582, 2589, 2594, 2595, 2597, 2606, 2615, 2621, 2631, 2634, 2647, 2657, 2661, 2663, 2669, 2689, 2690, 2691, 2707, 2715, 2730, 2735, 2738, 2749, 2750, 2754, 2759, 2764, 2772, 2796, 2799, 2801, 2802, 2803, 2809, 2821, 2823, 2828, 2838, 2844, 2846, 2849, 2866, 2869, 2883, 2889, 2894, 2899, 2915, 2916, 2920, 2921, 2922, 2924, 2925, 2926, 2928, 2932, 2943, 2974, 2977, 2979, 2988, 2995, 3012, 3014, 3021, 3024, 3032, 3033, 3036, 3050, 3052, 3069, 3071, 3072, 3076, 3084, 3088, 3089, 3090, 3094, 3096, 3098, 3104, 3106, 3107, 3110, 3114, 3117, 3118, 3137, 3140, 3145, 3149, 3154, 3157, 3159, 3166, 3176, 3179, 3184, 3190, 3195, 3199, 3202, 3203, 3206, 3211, 3216, 3224, 3225, 3228, 3239, 3241, 3252, 3254, 3255, 3256, 3257, 3260, 3272, 3275, 3284, 3287, 3288, 3298, 3299, 3303, 3317, 3326, 3327, 3330, 3337, 3343, 3345, 3349, 3351, 3353, 3355, 3356, 3362, 3363, 3376, 3381, 3385, 3387, 3388, 3389, 3392, 3395, 3403, 3423, 3424, 3452, 3460, 3471, 3489, 3491, 3493, 3494, 3500, 3501, 3508, 3509, 3510, 3514, 3515, 3528, 3532, 3535, 3553, 3554, 3564, 3565, 3568, 3569, 3575, 3595, 3605, 3618, 3627, 3640, 3649, 3652, 3659, 3671, 3673, 3676, 3678, 3680, 3689, 3693, 3699, 3701, 3709, 3718, 3728, 3731, 3739, 3751, 3754, 3755, 3764, 3777, 3782, 3788, 3789, 3791, 3792, 3793, 3812, 3814, 3819, 3825, 3827, 3834, 3847, 3855, 3856, 3857, 3860, 3882, 3884, 3907, 3914, 3917, 3924, 3927, 3939, 3943, 3946, 3947, 3948, 3958, 3962, 3965, 3969, 3977, 3980, 3990, 4001, 4015, 4025, 4034, 4036, 4037, 4042, 4046, 4054, 4061, 4062, 4067, 4071, 4072, 4077, 4083, 4090, 4092, 4093, 4098, 4104, 4105, 4119, 4121, 4136, 4141, 4145, 4160, 4161, 4162, 4170, 4183, 4188, 4191, 4193, 4203, 4210, 4217, 4222, 4223, 4230, 4234, 4237, 4238, 4246, 4249, 4251, 4252, 4264, 4272, 4276, 4277, 4280, 4283, 4293, 4295, 4298, 4299, 4309, 4317, 4318, 4320, 4323, 4327, 4341, 4345, 4346, 4363, 4367, 4374, 4384, 4388, 4392, 4397, 4404, 4429, 4431, 4433, 4438, 4440, 4442, 4450, 4469, 4470, 4472, 4475, 4477, 4478, 4480, 4482, 4490, 4498, 4500, 4501, 4506, 4510, 4512, 4520, 4523, 4531, 4532, 4533, 4544, 4556, 4558, 4563, 4567, 4568, 4573, 4574, 4591, 4599, 4604, 4612, 4614, 4618, 4624, 4626, 4637, 4638, 4652, 4654, 4661, 4678, 4686, 4702, 4703, 4709, 4714, 4719, 4736, 4745, 4755, 4762, 4768, 4770, 4772, 4777, 4778, 4780, 4783, 4792, 4799, 4801, 4808, 4810, 4825, 4833, 4837, 4843, 4848, 4853, 4863, 4869, 4878, 4891, 4892, 4900, 4906, 4926, 4947, 4949, 4955, 4964, 4969, 4985, 4996, 5004, 5008, 5013, 5018, 5023, 5029, 5030, 5044, 5052, 5058, 5061, 5070, 5073, 5078, 5088, 5091, 5098, 5099, 5100, 5108, 5109, 5113, 5121, 5124, 5127, 5129, 5136, 5141, 5143, 5146, 5153, 5154, 5155, 5157, 5160, 5164, 5169, 5187, 5189, 5190, 5196, 5198, 5202, 5212, 5230, 5232, 5234, 5235, 5240, 5247, 5262, 5264, 5265, 5268, 5269, 5276, 5287, 5324, 5334, 5337, 5339, 5350, 5352, 5353, 5359, 5363, 5366, 5367, 5372, 5377, 5388, 5397, 5401, 5403, 5404, 5411, 5421, 5423]}
+
 
 def FEMNIST_iid(dataset,num_users):
     args = args_parser()
-    if os.path.exists(args.private_dataset_index):
+    if  os.path.exists(args.private_dataset_index):
         print('private_dataset_index exist ~ ')
         f  = open(args.private_dataset_index,'r')
         temp = f.read()
@@ -147,12 +157,16 @@ def FEMNIST_iid(dataset,num_users):
         return dict_users
     else:
         print('create private_dataset_index ~ ')
-        num_item = int(len(dataset) / num_users)
-        num_item = 20  # 用于达到作者目的！
-        dict_users, all_idxs = {}, [i for i in range(len(dataset))]
+        # num_item = int(len(dataset) / num_users)
+        num_class_item = 3  # 用于达到作者目的！
+        dict_users = {}
         for i in range(num_users):
-            dict_users[i] = set(np.random.choice(all_idxs, num_item, replace=False))
-            all_idxs = list(set(all_idxs) - dict_users[i])
+            dict_users[i]=set()
+        for i in range(num_users):
+            for key in dict.keys():
+                temp = set(np.random.choice(dict[key], num_class_item, replace=False))
+                dict_users[i] = dict_users[i] | temp
+                dict[key] = list(set(dict[key]) - temp)
         f = open(args.private_dataset_index,'w')
         f.write(str(dict_users))
         f.close()
@@ -177,3 +191,11 @@ class args:
 # # data_train,data_test = get_private_dataset(args)
 # data_train,data_test = get_private_dataset_balanced(args)
 # print(FEMNIST_iid(data_train,10)[9])
+
+
+# def generateIndex(dataset):
+#     dict_private_index = {}
+#     for i in range(len(dataset)):
+#         dict_private_index.setdefault(data_train[i][1], []).append(i)
+#     return dict_private_index
+# print(generateIndex(data_train))

diff --git a/collaborative_train_balanced_mnist.py b/collaborative_train_balanced_mnist.py
@@ -53,17 +53,24 @@ def collaborative_private_model_mnist_train(args):
 
         for batch_idx, (images, labels) in enumerate(trainloader):
             images,labels = images.to(device),labels.to(device)
+            # labels.shape torch.Size([128])
             temp_sum_result = []
             # Make output together
             for n, model in enumerate(model_list):
-                model.to(device)
-                model.train()
-                outputs = model(images)
-                _,pred_labels = torch.max(outputs,1)
-                pred_labels = pred_labels.view(-1)
-                temp_sum_result.append(pred_labels)
-            temp_sum_result = torch.stack(temp_sum_result)
+                with torch.no_grad():
+                    model.to(device)
+                    model.eval()
+                    outputs = model(images)
+                    pred_labels = outputs
+                    # print(pred_labels.shape) # torch.Size([128, 16])
+                    # _,pred_labels = torch.max(outputs,1)
+                    # pred_labels = pred_labels.view(-1)
+                    # print(pred_labels.shape) # torch.Size([2048])
+                    temp_sum_result.append(pred_labels)
+            temp_sum_result = torch.stack(temp_sum_result) # torch.Size([10, 128, 16])
+            # print(temp_sum_result.shape)
             labels = torch.mean(temp_sum_result.float(),dim=0) # get the output
+            # print(labels.shape) # torch.Size([128, 16])
             labels = labels.type(torch.LongTensor)
             labels = labels.to(device)
             for n,model in enumerate (model_list):
@@ -75,9 +82,9 @@ def collaborative_private_model_mnist_train(args):
                 elif args.optimizer == 'adam':
                     optimizer = torch.optim.Adam(model.parameters(), lr=args.lr,
                                                  weight_decay=1e-4)
-                criterion = nn.NLLLoss().to(device)
+                criterion = nn.L1Loss(size_average=None, reduce=None, reduction='mean').to(device)
                 optimizer.zero_grad()
-                outputs = model(images)
+                outputs = model(images) # torch.Size([128, 16])
                 loss = criterion(outputs,labels)
                 loss.backward()
                 optimizer.step()

diff --git a/option.py b/option.py
@@ -8,8 +8,8 @@ def args_parser():
     parser.add_argument('--gpu',type=int,default=1,help="choose to use GPU or CPU")
     parser.add_argument('--dataset',type=str,default='mnist',help='name of dataset')
     parser.add_argument('--user_number',type=int,default=10,help='number of user join in Federated Learning')
-    parser.add_argument('--lr',type=float,default=0.01,help='learning rate')
-    parser.add_argument('--optimizer',type=str,default='sgd',help='type of optimizer')
+    parser.add_argument('--lr',type=float,default=0.001,help='learning rate')
+    parser.add_argument('--optimizer',type=str,default='adam',help='type of optimizer')
     parser.add_argument('--epoch',type=int,default=10,help='training epoch')
 
     # pretrained_public_mnist_continue
@@ -23,7 +23,7 @@ def args_parser():
     parser.add_argument('--privateepoch',type=int,default=20,help='training epoch')
     parser.add_argument('--private_dataset',type=str,default='FEMNIST',help='private dataset for each client')
     parser.add_argument('--privateurl',type=str,default='Src\PrivateModel',help='private model location')
-    parser.add_argument('--new_private_training',type=bool,default=True,help='whether train model from initial condition')
+    parser.add_argument('--new_private_training',type=bool,default=False,help='whether train model from initial condition')
 
     # Collaborative_private_model_femnist_balanced
     parser.add_argument('--new_collaborative_training',type=bool,default=False,help='whether train model from initial condition')

diff --git a/models.py b/models.py
@@ -34,7 +34,7 @@ class CNN_3layer_fc_model(nn.Module):
         x = x.view(x.shape[0], -1)  # 展开
         # print(x.shape)
         x = self.FC1(x)
-        return F.log_softmax(x,dim=1)
+        return F.softmax(x,dim=1)
 
 class CNN_2layer_fc_model(nn.Module):
     def __init__(self):
@@ -61,7 +61,7 @@ class CNN_2layer_fc_model(nn.Module):
         # (b, in_f) = x.shape  # 查看卷积层输出的tensor平铺后的形状
         # self.FC = nn.Linear(in_f, 10)  # 全链接层
         x = self.FC1(x)
-        return F.log_softmax(x,dim=1)
+        return F.softmax(x,dim=1)
 
 
 

diff --git a/private_model_femnist_balanced.py b/private_model_femnist_balanced.py
@@ -49,7 +49,7 @@ def private_dataset_train(args):
         elif args.optimizer == 'adam':
             optimizer = torch.optim.Adam(model.parameters(), lr=args.lr,
                                      weight_decay=1e-4)
-        trainloader = DataLoader(DatasetSplit(train_dataset,list(user_groups[n])),batch_size=64,shuffle=True)
+        trainloader = DataLoader(DatasetSplit(train_dataset,list(user_groups[n])),batch_size=32,shuffle=True)
         criterion = nn.NLLLoss().to(device)
         train_epoch_losses = []
         print('Begin Private Training')

diff --git a/private_model_femnist_Accuracy.py b/private_model_femnist_Accuracy.py
@@ -14,7 +14,7 @@ def test_accuracy_privateinitialmodel(args):
     models = {"2_layer_CNN": CNN_2layer_fc_model,  # 字典的函数类型
               "3_layer_CNN": CNN_3layer_fc_model}
     modelsindex = ["2_layer_CNN", "3_layer_CNN"]
-    model_list = get_model_list_test_acuracy(args.Collaborativeurl, modelsindex, models)
+    model_list = get_model_list_test_acuracy(args.privateurl, modelsindex, models)
     accuracy_list = []
     for n, model in enumerate(model_list):
         print('Test accuracy of Local Model {}'.format(n))

diff --git a/Collaborative_step.py b/Collaborative_step.py
@@ -24,6 +24,9 @@ if __name__ == '__main__':
         collaborative_private_model_mnist_train(args)
         collaborative_private_model_femnist_train(args)
         accuracy.append(eachround_accuracy)
+    eachround_accuracy = []
+    eachround_accuracy = test_accuracy_collaborativemodel(args)
+    accuracy.append(eachround_accuracy)
     accuracy = transpose(accuracy)
 
     for i, val in enumerate(accuracy):

diff --git a/pretrained_public_mnist_continue.py b/pretrained_public_mnist_continue.py
@@ -32,7 +32,6 @@ def continue_train_models(args):
         train_epoch_losses = []
         print('Begin Public Training')
         for epoch in range(args.continue_epoch):
-
             train_batch_losses = []
             for batch_idx, (images, labels) in enumerate(trainloader):
                 images, labels = images.to(device), labels.to(device)

diff --git a/pretrained_public_mnist_Accuracy.py b/pretrained_public_mnist_Accuracy.py
@@ -40,6 +40,4 @@ def test_accuracy_initialmodel(args):
 from option import args_parser
 if __name__ == '__main__':
     args = args_parser()
-    # if args.gpu:
-    #     torch.cuda.set_device(args.gpu)
     test_accuracy_initialmodel(args)
